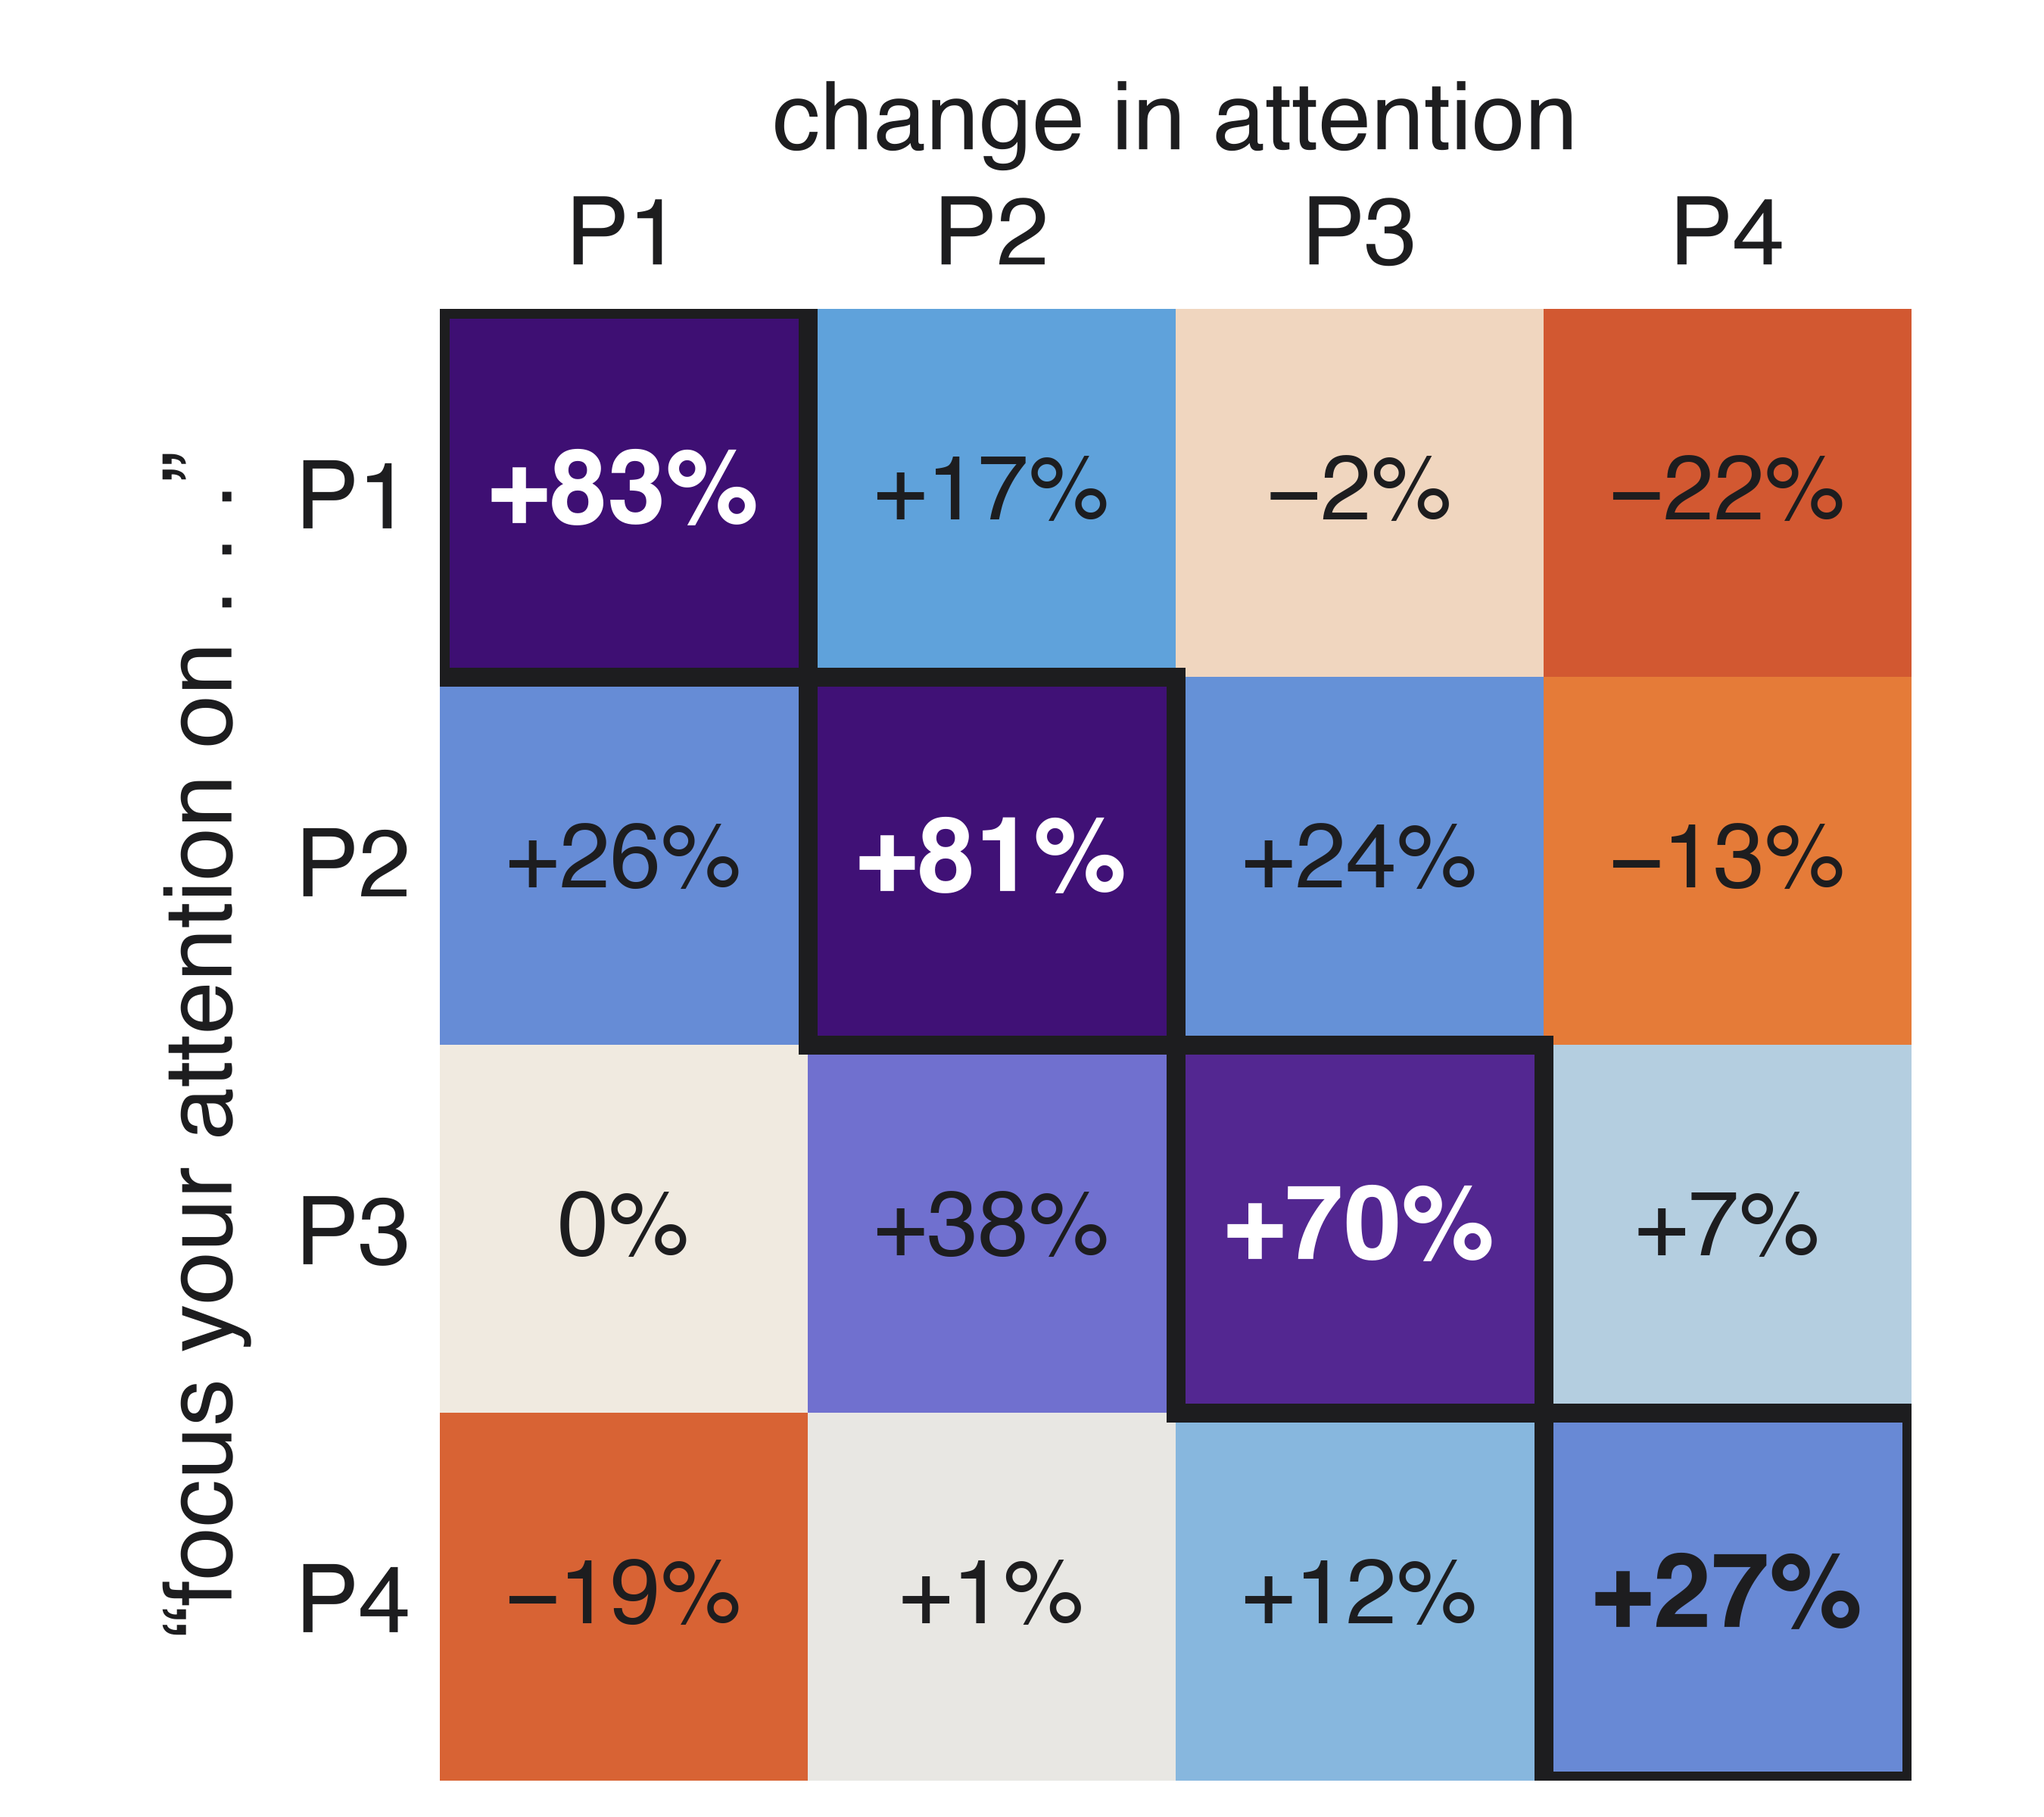
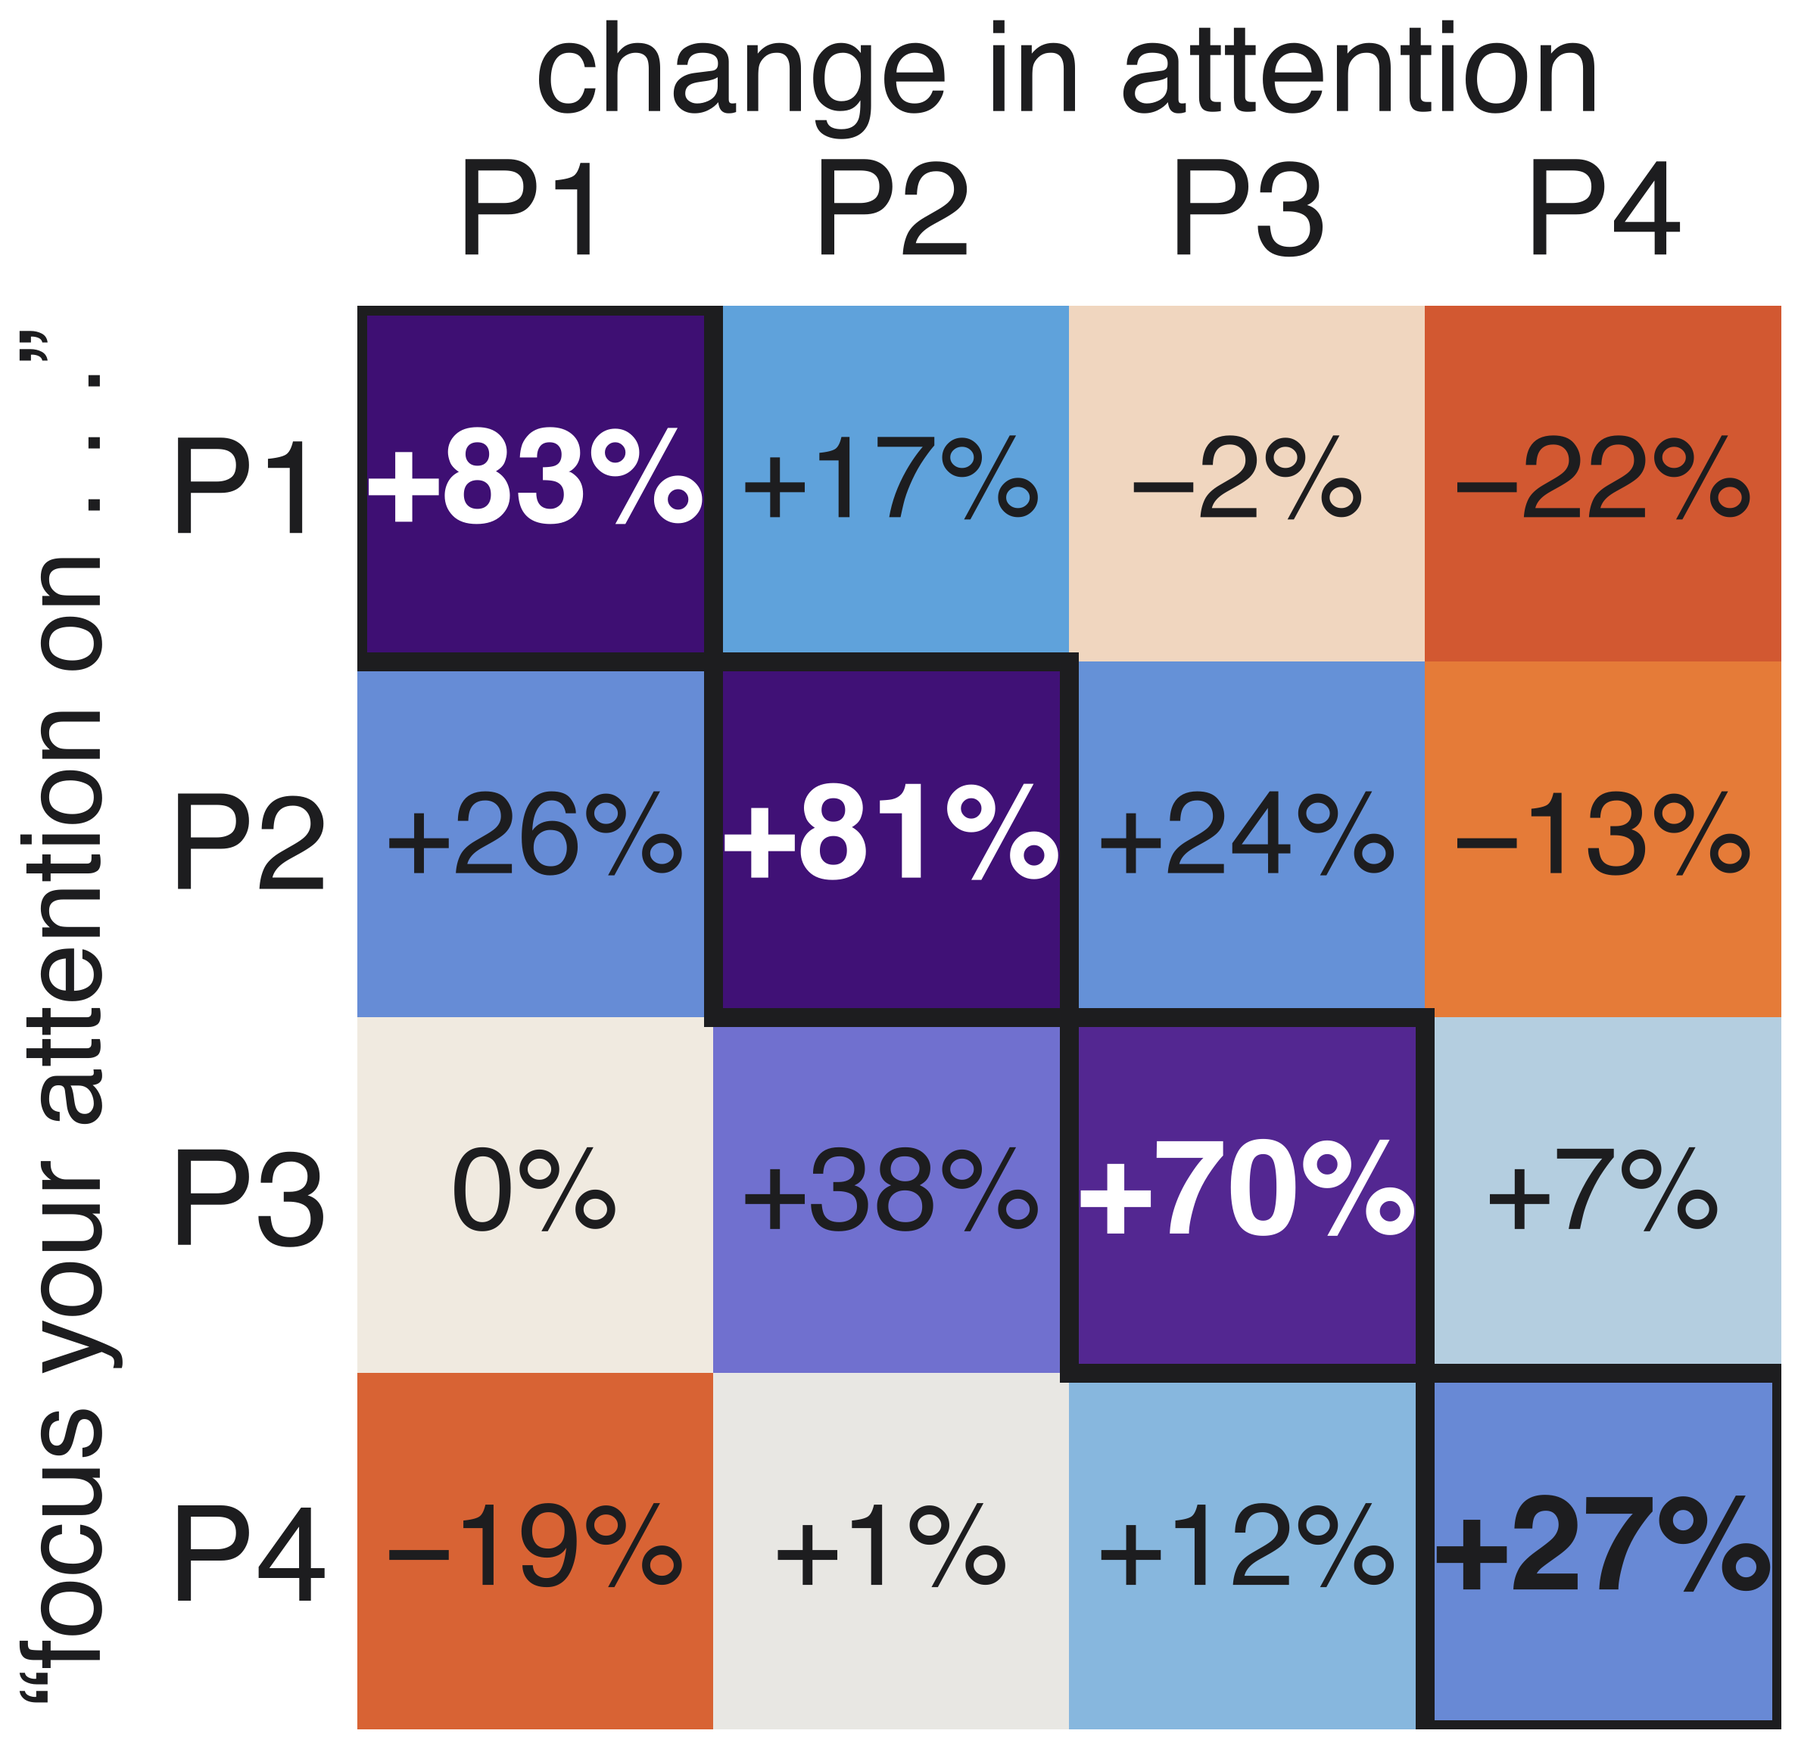
Hero: no y axis, labels on plot; rotation: bigger text

Changed region(s): [[0.0, 0.0, 0.9971, 0.9987], [0.2493, 0.6554, 0.3427, 0.7178], [0.0, 0.1873, 0.0312, 0.2185]]

diff --git a/figures/rotate_fig.py b/figures/rotate_fig.py
@@ -5,23 +5,23 @@ from matplotlib.patches import Rectangle
 R = json.load(open(sys.argv[1]))["att_mean"]
 OUT = "/Users/user/connectome/islands/agents/resident-a/compute/fig/attn_intro/"
 INK = "#1D1D1F"
-plt.rcParams.update({"font.family": "Helvetica", "font.size": 60, "text.color": INK, "axes.labelcolor": INK,
+plt.rcParams.update({"font.family": "Helvetica", "font.size": 80, "text.color": INK, "axes.labelcolor": INK,
                      "xtick.color": INK, "ytick.color": INK, "axes.edgecolor": INK})
 sys.path.insert(0, OUT); from pal import DIV, norm
 M = np.array(R["ratio"]); P = 100 * (M - 1); vm = np.abs(P).max(); nm = norm(-vm*0.6, vm)
-fig = plt.figure(figsize=(18, 16)); a = fig.add_axes([0.19, 0.02, 0.77, 0.81])
+fig = plt.figure(figsize=(18, 16.5)); a = fig.add_axes([0.21, 0.02, 0.77, 0.76])
 a.imshow(P, cmap=DIV, norm=nm)
 for k in range(4):
     for m in range(4):
         v = P[k, m]; dark = abs(v) > 0.5 * vm
-        a.text(m, k, (f"{v:+.0f}%".replace("-","−") if round(v) else "0%"), ha="center", va="center", fontsize=66 if k == m else 58,
+        a.text(m, k, (f"{v:+.0f}%".replace("-","−") if round(v) else "0%"), ha="center", va="center", fontsize=84 if k == m else 74,
                fontweight="bold" if k == m else "normal", color="white" if dark else INK)
     a.add_patch(Rectangle((k - 0.5, k - 0.5), 1, 1, fill=False, lw=12, ec=INK, zorder=5))
 a.set_xticks(range(4)); a.set_xticklabels([f"P{i}" for i in range(1, 5)])
 a.set_yticks(range(4)); a.set_yticklabels([f"P{i}" for i in range(1, 5)])
 a.xaxis.tick_top(); a.xaxis.set_label_position("top")
-a.tick_params(length=0, pad=18)
+a.tick_params(length=0, pad=18, labelsize=84)
 a.set_xlabel("change in attention", labelpad=28)
-a.set_ylabel("“focus your attention on . . .”", labelpad=28)
+a.set_ylabel("“focus your attention on . . .”", labelpad=28, fontsize=70)
 for s in a.spines.values(): s.set_visible(False)
-fig.savefig(OUT + "rotate.png", dpi=150, facecolor="white"); fig.savefig(OUT + "rotate.jpg", dpi=150, facecolor="white")
+fig.savefig(OUT + "rotate.png", dpi=150, facecolor="white", bbox_inches="tight", pad_inches=0.15); fig.savefig(OUT + "rotate.jpg", dpi=150, facecolor="white", bbox_inches="tight", pad_inches=0.15)

diff --git a/figures/vhero.py b/figures/vhero.py
@@ -79,13 +79,13 @@ for p,name in enumerate(res):
     for bb in vv["bodies"]: bb.set_facecolor(col); bb.set_alpha(0.22); bb.set_edgecolor(col); bb.set_linewidth(2.5)
     xj=p*1.35+rng.uniform(-0.25,0.25,len(z)); a.scatter(xj,z,s=650,c=DIV(DN(z)),alpha=0.45,edgecolors="none",zorder=3); a.scatter(xj,z,s=6,color="black",zorder=4)
     a.plot([p*1.35,p*1.35],[r["lo"],r["hi"]],color=INK,lw=12,solid_capstyle="butt",zorder=5); a.plot([p*1.35-0.22,p*1.35+0.22],[r["mean"]]*2,color=INK,lw=6,zorder=6)
-    a.text(p*1.35,(z.max()+2) if r["mean"]>0 else (z.min()-2),f"{r['mean']:+.0f}%".replace("-","−"),fontsize=100,fontweight="bold",color=(PURPLE if r["mean"]>0 else RED),ha="center",va=("bottom" if r["mean"]>0 else "top"),zorder=7)
+    a.text(p*1.35,(z.max()+2) if r["mean"]>0 else (z.min()-2),(f"{r['mean']:+.0f}% attention".replace("-","−")),fontsize=100,fontweight="bold",color=(PURPLE if r["mean"]>0 else RED),ha="center",va=("bottom" if r["mean"]>0 else "top"),zorder=7)
 a.set_xticks([]); 
-a.set_ylim(allz.min()-34,allz.max()+22)
+a.set_ylim(allz.min()-46,allz.max()+40)
 for ax in (a,):
     ax.axhline(0,color=INK,lw=4,zorder=4)
     ax.yaxis.set_major_formatter(matplotlib.ticker.FuncFormatter(lambda v,_: f"{v:+.0f}%".replace("-","\u2212") if v else "0%"))
     for s_ in ["top","right"]: ax.spines[s_].set_visible(False)
     ax.spines["left"].set_linewidth(3); ax.spines["bottom"].set_linewidth(3); ax.tick_params(width=4,length=16,labelsize=72)
-a.set_ylabel("change in\nattention",fontsize=70,labelpad=6); a.set_yticks([0,50]); a.set_xlim(-0.42,1.90)
-fig.tight_layout(pad=0.6); fig.savefig(OUT+"vhero.png",dpi=110,facecolor="white"); fig.savefig(OUT+"vhero.jpg",dpi=110,facecolor="white")
+a.set_yticks([]); a.spines["left"].set_visible(False); a.set_xlim(-0.66,2.01)
+a.spines["bottom"].set_visible(False); a.set_xticks([]); fig.subplots_adjust(left=0,right=1,top=1,bottom=0); fig.savefig(OUT+"vhero.png",dpi=110,facecolor="white"); fig.savefig(OUT+"vhero.jpg",dpi=110,facecolor="white")

diff --git a/figures/hero_setup.py b/figures/hero_setup.py
@@ -58,7 +58,7 @@ VIO = _b.b64encode(open(os.path.join(HERE, "vhero.png"), "rb").read()).decode()
 HTML = f'''<!doctype html><html><head><meta charset="utf-8"><style>
 *{{box-sizing:border-box;margin:0;padding:0}}
 body{{width:{W}px;background:#fff;font-family:"Helvetica Neue",Helvetica,Arial,sans-serif;color:{INK};padding:20px 26px 10px}}
-.cols{{display:flex;gap:36px;padding-left:300px}}
+.cols{{display:flex;gap:36px;padding-left:0}}
 .col{{flex:1;min-width:0;display:flex;flex-direction:column}}
 .cname{{font-size:76px;font-weight:800;margin:0 0 12px 4px;white-space:nowrap}}
 .ub{{flex:1;background:#1F8BFF;color:#fff;border-radius:34px;padding:22px 26px;font-size:54px;line-height:1.18;display:flex;flex-direction:column;gap:8px}}
